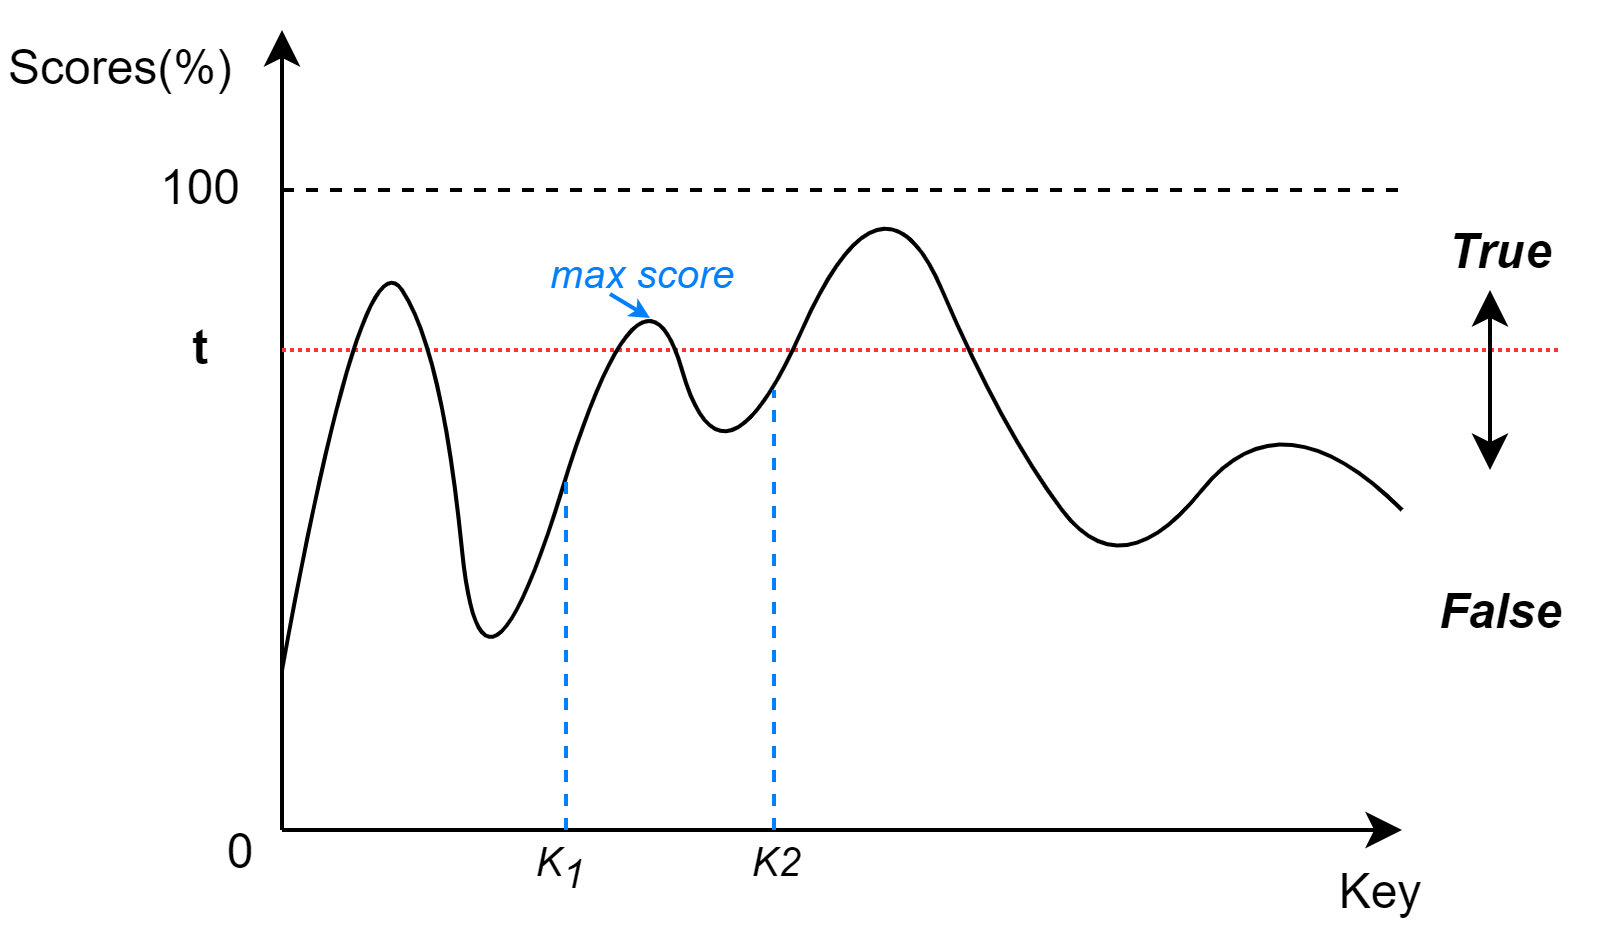
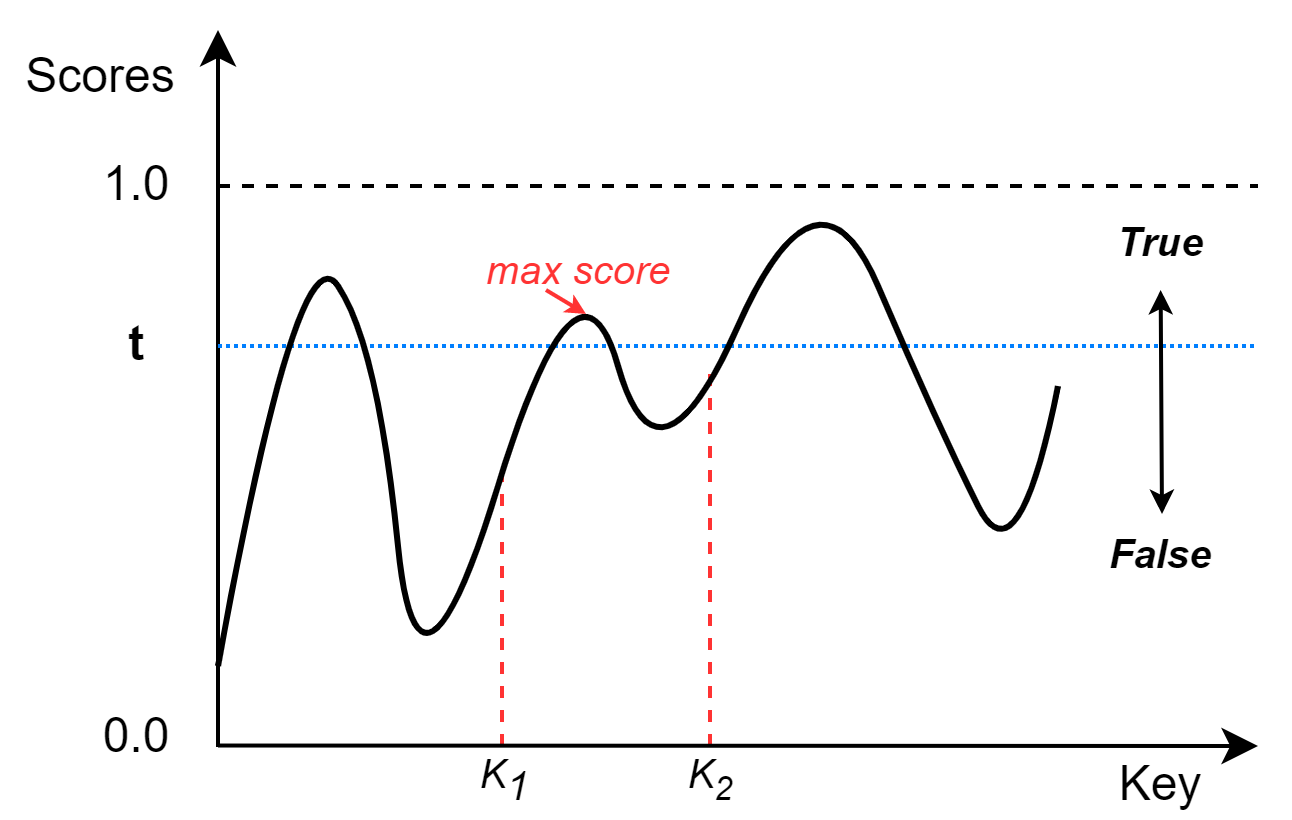
change posts

diff --git a/_posts/KV store/2021-11-16-RocksDB范围读优化研究.md b/_posts/KV store/2021-11-16-RocksDB范围读优化研究.md
@@ -135,16 +135,13 @@ tags:
 
 - Learned Range Filter
 
-  - 绘制Key-Score 的 CDF，判断范围内最高score是否大于t
+  - filter特征
+    - 存在性索引：0/1分类问题
+    - allow false positives, but will not give false negative  （有不一定有，没有一定没有）
 
   <img src="..\..\photos\Scan\image-20211203122448516.png" alt="image-20211203122448516" style="zoom:80%;" />            <img src="..\..\photos\Scan\Scan_filter.png" alt="Scan_filter" style="zoom: 25%;" />                  
 
-  - 例子: (K1, k2)
-
-  - filter特征
-
-    - 存在性索引
-    - allow false positives, but will not give false negative  （有不一定有，没有一定没有）
+  - Range Filter：绘制Key-Score 的 CDF，判断范围内最高score是否大于t；例子: (K1, k2)
 
   - 如何绘制CDF：**插值问题**
 
@@ -159,8 +156,6 @@ tags:
     
 
   - 测试 **ing**
-
-    - 
 
   <img src="..\..\photos\Scan\image-20211203143025423.png" alt="image-20211203143025423" style="zoom:50%;" />
 
